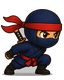
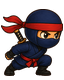
Clear enclosed gray matte between ninja jump legs.
Flood-fill cutout could not reach the painted background trapped between the limbs.

diff --git a/tools/build_ninja_frames.py b/tools/build_ninja_frames.py
@@ -33,6 +33,26 @@ def _fig(path: str, target_h: int = BODY_H, baseline: int = BASELINE) -> Image.I
     return frame_sprite(cutout(str(SRC / path)), canvas=CANVAS, target_h=target_h, baseline=baseline)
 
 
+def _scrub_flat_gray(im: Image.Image, *, level: int = 110, chroma: int = 18) -> Image.Image:
+    """Clear residual flat matte after downscale (enclosed limb gaps / foot shadow)."""
+    out = im.copy()
+    px = out.load()
+    w, h = out.size
+    for y in range(h):
+        for x in range(w):
+            r, g, b, a = px[x, y]
+            if a < 8:
+                continue
+            if min(r, g, b) < level:
+                continue
+            if (max(r, g, b) - min(r, g, b)) > chroma:
+                continue
+            # Keep warm cream highlights; punch near-neutral gray only.
+            if abs(r - b) <= chroma and abs(g - b) <= chroma:
+                px[x, y] = (r, g, b, 0)
+    return out
+
+
 def _strip(path: str, *, level: int = 208, sat: int = 22) -> list[Image.Image]:
     """Cut a horizontal strip into left-to-right figures (two largest if extras)."""
     keyed = cutout(str(SRC / path), level=level, sat=sat)
@@ -70,10 +90,16 @@ def build() -> None:
     )
 
     # Jump concept uses a flatter gray matte (~197) — lower cutout threshold.
+    # Enclosed gray between the legs is punched by cutout(punch_holes=True);
+    # LANCZOS downscale can still bleed matte into the gap, so scrub framed output.
     jump = _strip("jump_strip.png", level=185, sat=30)
     frames["jump_0"], frames["jump_1"] = (
-        frame_sprite(jump[0], canvas=CANVAS, target_h=BODY_H, baseline=BASELINE),
-        frame_sprite(jump[1], canvas=CANVAS, target_h=BODY_H, baseline=BASELINE),
+        _scrub_flat_gray(
+            frame_sprite(jump[0], canvas=CANVAS, target_h=BODY_H, baseline=BASELINE)
+        ),
+        _scrub_flat_gray(
+            frame_sprite(jump[1], canvas=CANVAS, target_h=BODY_H, baseline=BASELINE)
+        ),
     )
 
     # Seated captured pose sits a touch lower/shorter than the standing frames.

diff --git a/tools/art_pipeline.py b/tools/art_pipeline.py
@@ -37,6 +37,7 @@ def cutout(
     feather: int = 3,
     level: int = 208,
     sat: int = 22,
+    punch_holes: bool = True,
 ) -> Image.Image:
     """Remove a painted checkerboard / flat white background via border flood fill.
 
@@ -46,6 +47,10 @@ def cutout(
 
     Lower ``level`` (e.g. 185) keys stubborner painted mattes that sit below the
     default light-gray threshold; default 208 matches existing call sites.
+
+    When ``punch_holes`` is true, remaining *flat* near-gray pockets (enclosed
+    matte between legs/arms that flood-fill cannot reach from the border) are
+    cleared too. Warm cream highlights are kept by requiring near-neutral chroma.
     """
     im = Image.open(src).convert("RGBA")
     w, h = im.size
@@ -72,6 +77,18 @@ def cutout(
                 if _is_bg(r, g, b, level=level, sat=sat):
                     bg[idx(nx, ny)] = 1
                     dq.append((nx, ny))
+
+    if punch_holes:
+        # Enclosed limb gaps keep painted matte that never touches the border.
+        # Only punch near-neutral grays so warm cream face highlights survive.
+        hole_level = min(level, 150)
+        for y in range(h):
+            for x in range(w):
+                if bg[idx(x, y)]:
+                    continue
+                r, g, b, _ = px[x, y]
+                if min(r, g, b) >= hole_level and (max(r, g, b) - min(r, g, b)) <= 12:
+                    bg[idx(x, y)] = 1
 
     for _ in range(feather):
         add: list[tuple[int, int]] = []

diff --git a/README.md b/README.md
@@ -2,7 +2,7 @@
 
 Child-friendly 2D western cowboy platformer (Godot **4.4**). Aimed at kids ~6: forgiving jumps, nonviolent lasso. **Classic mode** has no lives or game over; **Advanced Mode** (chosen in **Settings** before starting or continuing a slot) adds a three-life limit, badge milestones, and a game-over return to the start screen. Pick **Cowboy** or **Cowgirl** in Settings — the choice applies across all save slots. **German is the default language**; English is fully supported.
 
-**Content version:** `1.8.50` (see `content_version.txt`). Launchers reimport when this stamp changes.
+**Content version:** `1.8.51` (see `content_version.txt`). Launchers reimport when this stamp changes.
 
 This README is the **binding source of truth** for gameplay, level design, art, i18n, and audio. Agents and contributors must follow it (see [Agent / contributor rules](#agent--contributor-rules)).
 
